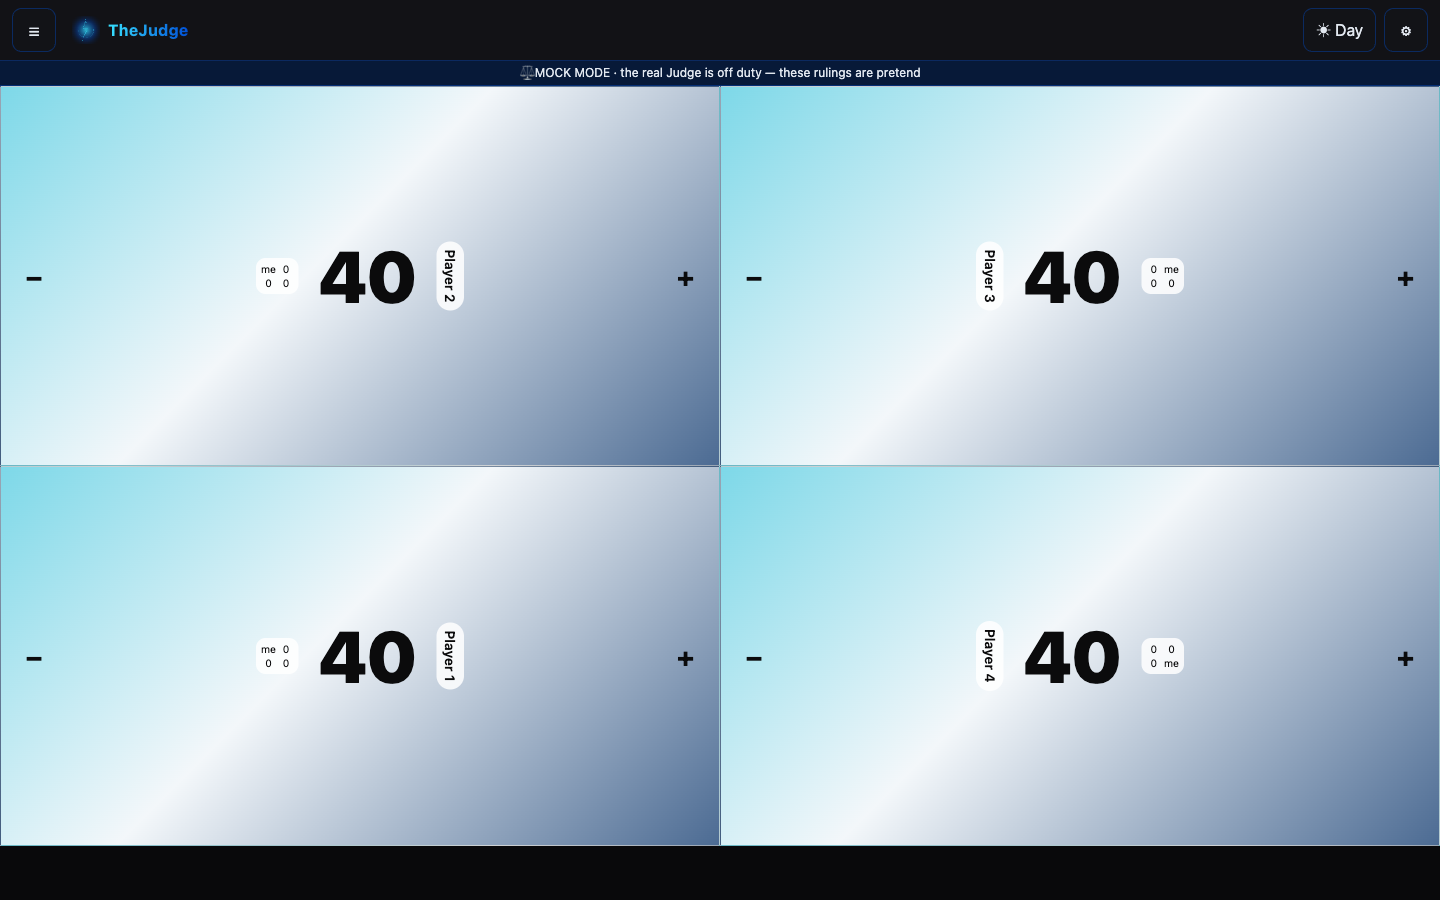
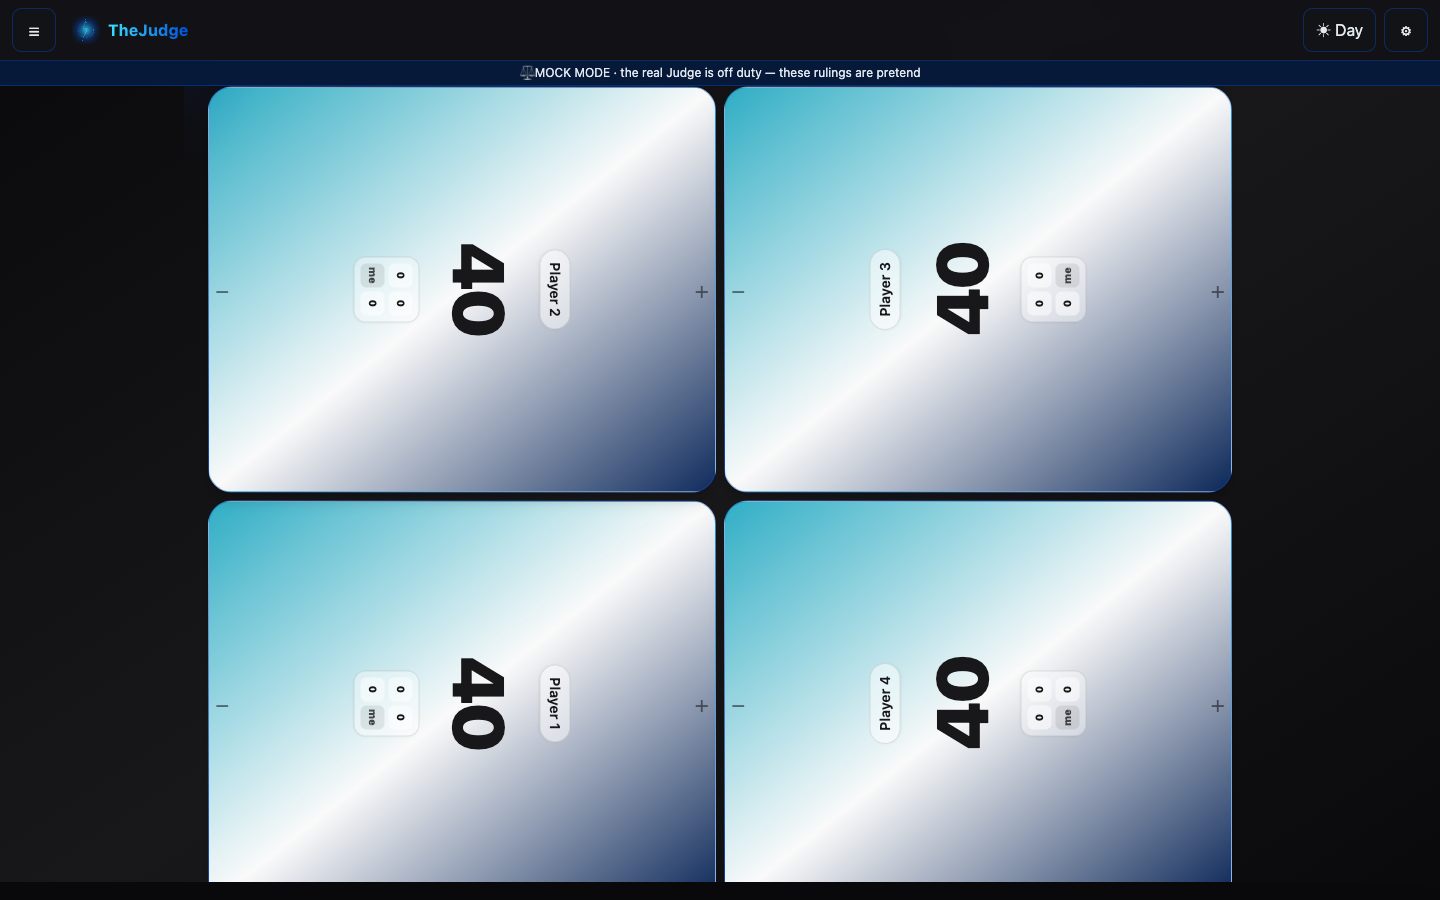
fix(ui-reimagining): slice C — Life Tracker after composite no longer redraws its own table (C5)
Review finding (Critical, C5): life-tracker-after.html hand-redrew Life
Tracker's own table — upright life numbers instead of per-seat rotation,
a single-column layout at 390x844 instead of the real 2x2 grid, square
edge-to-edge panels instead of rounded cards with gutters, and +/-
pushed to the panel edges instead of sitting inboard. None of it matched
before/life-tracker-*.png or the live seatArrangement() contract.

Fix: stop redrawing the table by hand. life-tracker-after.html now crops
the real table pixels straight out of the before captures (below each
capture's measured header line) into life-tracker-table-390x844.png /
life-tracker-table-1440x900.png and embeds that crop under the new
shared-chrome header via a <picture> element sized with object-fit:
cover (no stretch). The table in the composite is therefore the literal
before-capture pixels, so it cannot drift from them.

Re-captured after/life-tracker-390x844.png and -1440x900.png from the
fixed page; verified both now show the real 2x2 grid, per-seat rotation,
card radii/gutters, and inboard +/- placement, matching before/ exactly.
Re-earned C5 in slice-c.criteria.json; slice status back to done.

diff --git a/docs/design/ui-reimagining/direction-1/life-tracker-after.html b/docs/design/ui-reimagining/direction-1/life-tracker-after.html
@@ -8,75 +8,34 @@
 <link rel="stylesheet" href="shell.css">
 <style>
   /*
-   * Life Tracker's OWN screen content is reproduced here with fixed,
-   * hardcoded values — deliberately NOT driven by tokens.css — because
-   * REQ-202 keeps Life Tracker's own screens, counters, and layout
-   * untouched by this redesign. Only the surrounding chrome (the header
-   * above) reads the new REQ-200 surface-role tokens, exactly as it does
-   * on every other destination. Faithfully reproduces
-   * ../before/life-tracker-390x844.png and ../before/life-tracker-1440x900.png.
+   * Life Tracker's OWN screen content (the seat table below the banner) is
+   * NOT redrawn here. REQ-202 keeps Life Tracker's own screens, counters,
+   * and layout untouched by this redesign, so this page composes the real
+   * table by embedding a pixel crop taken directly from the "before"
+   * captures (../before/life-tracker-390x844.png and
+   * ../before/life-tracker-1440x900.png) below the header line measured in
+   * each capture (y=120 at 390x844, y=104 at 1440x900) — see
+   * life-tracker-table-390x844.png / life-tracker-table-1440x900.png next
+   * to this file. That crop is the real per-seat table: life numbers
+   * rotated to face each seat, the 2x2 grid with all four players, the
+   * same rounded cards and gutters, the same inboard -/+ placement — none
+   * of it is reproduced by hand. Only the header above (menu rail, brand
+   * mark, mock-mode banner) reads the new REQ-200 surface-role tokens,
+   * exactly as it does on every other destination.
    */
-  body { background: #09090b; }
-  .life-table {
-    display: grid;
-    grid-template-columns: 1fr;
-    gap: 0;
-  }
-  @media (min-width: 640px) {
-    .life-table { grid-template-columns: 1fr 1fr; }
-  }
-  .life-card {
-    position: relative;
-    min-height: 380px;
+  .life-table-frame {
+    flex: 1;
+    min-height: 0;
     display: flex;
-    align-items: center;
-    justify-content: center;
-    background: linear-gradient(135deg, #7dd8e8 0%, #f3f7fa 45%, #4c6b93 100%);
-    color: #0b0b0c;
-    border: 1px solid rgba(0, 0, 0, 0.15);
-    font-family: system-ui, sans-serif;
+    background: #09090b;
   }
-  .life-card .life-row {
-    display: flex;
-    align-items: center;
-    gap: 1.25rem;
-  }
-  .life-card .life-number {
-    font-size: 4.5rem;
-    font-weight: 900;
-    line-height: 1;
-  }
-  .life-card .pm {
-    position: absolute;
-    top: 50%;
-    transform: translateY(-50%);
-    background: none;
-    border: none;
-    font-size: 1.75rem;
-    font-weight: 700;
-    color: #0b0b0c;
-    cursor: pointer;
-    padding: 0 1rem;
-  }
-  .life-card .minus { left: 0.5rem; }
-  .life-card .plus { right: 0.5rem; }
-  .life-card .player-label {
-    writing-mode: vertical-rl;
-    background: rgba(255, 255, 255, 0.85);
-    border-radius: 999px;
-    padding: 0.5rem 0.35rem;
-    font-weight: 600;
-    font-size: 0.85rem;
-  }
-  .life-card .counters {
-    display: grid;
-    grid-template-columns: repeat(2, 1fr);
-    gap: 0.15rem;
-    background: rgba(255, 255, 255, 0.85);
-    border-radius: 0.6rem;
-    padding: 0.3rem;
-    font-size: 0.65rem;
-    text-align: center;
+  .life-table-frame picture,
+  .life-table-frame img {
+    display: block;
+    width: 100%;
+    height: 100%;
+    object-fit: cover;
+    object-position: top center;
   }
   .life-header-controls {
     display: flex;
@@ -107,43 +66,11 @@
   </header>
   <div class="mock-mode-banner">⚖ MOCK MODE · the real Judge is off duty — these rulings are pretend</div>
 
-  <main class="life-table" aria-label="4-player life table">
-    <div class="life-card">
-      <button class="pm minus" aria-label="Decrease life for Player 2">−</button>
-      <div class="life-row">
-        <div class="counters"><span>me</span><span>0</span><span>0</span><span>0</span></div>
-        <div class="life-number">40</div>
-        <div class="player-label">Player 2</div>
-      </div>
-      <button class="pm plus" aria-label="Increase life for Player 2">+</button>
-    </div>
-    <div class="life-card">
-      <button class="pm minus" aria-label="Decrease life for Player 3">−</button>
-      <div class="life-row">
-        <div class="player-label">Player 3</div>
-        <div class="life-number">40</div>
-        <div class="counters"><span>0</span><span>me</span><span>0</span><span>0</span></div>
-      </div>
-      <button class="pm plus" aria-label="Increase life for Player 3">+</button>
-    </div>
-    <div class="life-card">
-      <button class="pm minus" aria-label="Decrease life for Player 1">−</button>
-      <div class="life-row">
-        <div class="counters"><span>me</span><span>0</span><span>0</span><span>0</span></div>
-        <div class="life-number">40</div>
-        <div class="player-label">Player 1</div>
-      </div>
-      <button class="pm plus" aria-label="Increase life for Player 1">+</button>
-    </div>
-    <div class="life-card">
-      <button class="pm minus" aria-label="Decrease life for Player 4">−</button>
-      <div class="life-row">
-        <div class="player-label">Player 4</div>
-        <div class="life-number">40</div>
-        <div class="counters"><span>0</span><span>0</span><span>0</span><span>me</span></div>
-      </div>
-      <button class="pm plus" aria-label="Increase life for Player 4">+</button>
-    </div>
+  <main class="life-table-frame" aria-label="4-player life table (unchanged from today)">
+    <picture>
+      <source media="(min-width: 640px)" srcset="life-tracker-table-1440x900.png">
+      <img src="life-tracker-table-390x844.png" alt="Life Tracker's own 4-player table, identical to the before capture — life numbers rotated to face each seat in a 2x2 grid, same card radii, gutters, and inboard +/- placement.">
+    </picture>
   </main>
 </body>
 </html>

diff --git a/PRD/work/ui-reimagining/slice-c.evidence.md b/PRD/work/ui-reimagining/slice-c.evidence.md
@@ -24,6 +24,44 @@ the header chrome around it (brand mark, menu toggle, Day/settings icons)
 differs, reading the new REQ-200 token set exactly as every other
 destination's header does.
 
+2026-09-24 (build attempt 2) C5 — SUPERSEDES the C5 entry above, which was
+wrong: the independent reviewer found `life-tracker-after.html` had
+redrawn Life Tracker's own table by hand (upright life numbers instead of
+per-seat rotation, a single-column layout at 390x844 instead of the real
+2x2 arrangement, `gap: 0` square panels instead of rounded cards with
+gutters, and +/- pushed to the panel edges) — none of which matches
+`docs/design/ui-reimagining/before/life-tracker-*.png` or the live
+`seatArrangement()` contract in `apps/frontend/src/lib/lifeTracker/
+seatArrangement.ts` (4 players is always a 2x2 grid, left column rotated
+90deg, right column rotated 270deg, independent of viewport width — so the
+real table shows all 4 seats at 390x844 too, not 2 of 4).
+
+Fix: stopped hand-redrawing the table. `life-tracker-after.html` now crops
+the real table pixels straight out of the "before" captures — below the
+measured header line (y=120 at 390x844, y=104 at 1440x900) — into
+`life-tracker-table-390x844.png` / `life-tracker-table-1440x900.png`
+(new, same folder) and embeds the matching crop with a `<picture>` element
+sized to fill the space below the new header (`object-fit: cover`, no
+stretch). The table pixels in the composite are therefore the literal
+before-capture pixels, not a reproduction, so there is no drift to
+describe: they are byte-for-byte the "before" table region.
+
+Re-captured `docs/design/ui-reimagining/after/life-tracker-390x844.png`
+and `-1440x900.png` from the fixed page (temporary local static server,
+live Chromium tab, `browser_take_screenshot`). What the new images show,
+compared to `before/`: at 390x844, all 4 players in a 2x2 grid (Player 2
+top-left, Player 3 top-right, Player 1 bottom-left, Player 4 bottom-right),
+each "40" life number upright and each `Player N` label rotated 90/270deg
+to face its seat, rounded card corners with visible gutters between the
+four cards, and the +/- controls sitting inboard beside the life number
+(not at the panel edges) — identical to `before/life-tracker-390x844.png`.
+At 1440x900, the same 2x2 arrangement and per-seat rotation, identical to
+`before/life-tracker-1440x900.png`. Only the header above (brand mark,
+menu icon, Day/settings icons, mock-mode banner) reads the new token set;
+everything below the header line is the unmodified before-capture. REQ-202
+holds: the one-screen fit at 4 players is unaffected because the table
+pixels themselves never changed.
+
 2026-09-24 C7 — visually audited every asset referenced from
 `shared-chrome-menu.html` and `life-tracker-after.html`: the six
 `motifs/*.svg` files (abstract gradients/shapes authored for this package,
@@ -48,3 +86,18 @@ screenshots. Disposable capture path:
 above). Committed capture path:
 `docs/design/ui-reimagining/after/life-tracker-390x844.png` and
 `-1440x900.png`.
+
+2026-09-24 (build attempt 2) C8 amendment — the C5 fix re-verification
+served `docs/design/ui-reimagining/` over `python3 -m http.server 8091`
+as one tracked background task (shared with slice E's re-verification in
+the same session) and stopped it with `TaskStop`, not `nohup`/`&`/
+`pkill`; `lsof -iTCP:8091 -sTCP:LISTEN` confirmed no listener remained
+after. `browser_close` was called once after the last capture across
+both slices' re-verification (no open tabs remained). New disposable
+captures: `PRD/work/ui-reimagining/.playwright-mcp/
+life-tracker-after-390x844-check.png` and
+`life-tracker-after-1440x900-check.png`. Re-committed capture path:
+`docs/design/ui-reimagining/after/life-tracker-390x844.png` and
+`-1440x900.png` (overwritten with the fixed composite). See slice-e's
+E10 amendment for the note on the Playwright MCP tool's own
+automatic console/snapshot logs and their cleanup.

diff --git a/PRD/work/ui-reimagining/slice-c-shared-chrome-and-menu-mockup.md b/PRD/work/ui-reimagining/slice-c-shared-chrome-and-menu-mockup.md
@@ -80,5 +80,16 @@ ls docs/design/ui-reimagining/after/
 ## Files touched
 
 - `docs/design/ui-reimagining/direction-1/shared-chrome-menu.html` (new)
-- `docs/design/ui-reimagining/after/life-tracker-390x844.png` (new)
-- `docs/design/ui-reimagining/after/life-tracker-1440x900.png` (new)
+- `docs/design/ui-reimagining/after/life-tracker-390x844.png` (new; build
+  attempt 2 re-captured this from the fixed `life-tracker-after.html`)
+- `docs/design/ui-reimagining/after/life-tracker-1440x900.png` (new; build
+  attempt 2 re-captured this from the fixed `life-tracker-after.html`)
+- `docs/design/ui-reimagining/direction-1/life-tracker-after.html` (build
+  attempt 2, C5 fix: stopped hand-redrawing Life Tracker's own table;
+  composes the real table from a captured before-screenshot crop instead)
+- `docs/design/ui-reimagining/direction-1/life-tracker-table-390x844.png`
+  (new, build attempt 2: crop of `../before/life-tracker-390x844.png`
+  below its header line)
+- `docs/design/ui-reimagining/direction-1/life-tracker-table-1440x900.png`
+  (new, build attempt 2: crop of `../before/life-tracker-1440x900.png`
+  below its header line)

diff --git a/PRD/work/ui-reimagining/README.md b/PRD/work/ui-reimagining/README.md
@@ -82,7 +82,12 @@ app-code redesign are follow-on packages — see `DESIGN-BRIEF.md`.
   `docs/design/ui-reimagining/direction-1/shell.css`,
   `docs/design/ui-reimagining/before/*.png` — slice B, new
 - `docs/design/ui-reimagining/direction-1/shared-chrome-menu.html`,
+  `docs/design/ui-reimagining/direction-1/life-tracker-after.html`,
+  `docs/design/ui-reimagining/direction-1/life-tracker-table-*.png`,
   `docs/design/ui-reimagining/after/life-tracker-*.png` — slice C, new
+  (build attempt 2 fixed the C5 review finding: Life Tracker's own table
+  in the composite is now a captured crop of the before screenshot, not a
+  hand redraw)
 - `docs/design/ui-reimagining/direction-1/quick-question.html` — slice D, new
 - `docs/design/ui-reimagining/direction-1/in-depth-question.html` — slice E,
   new
